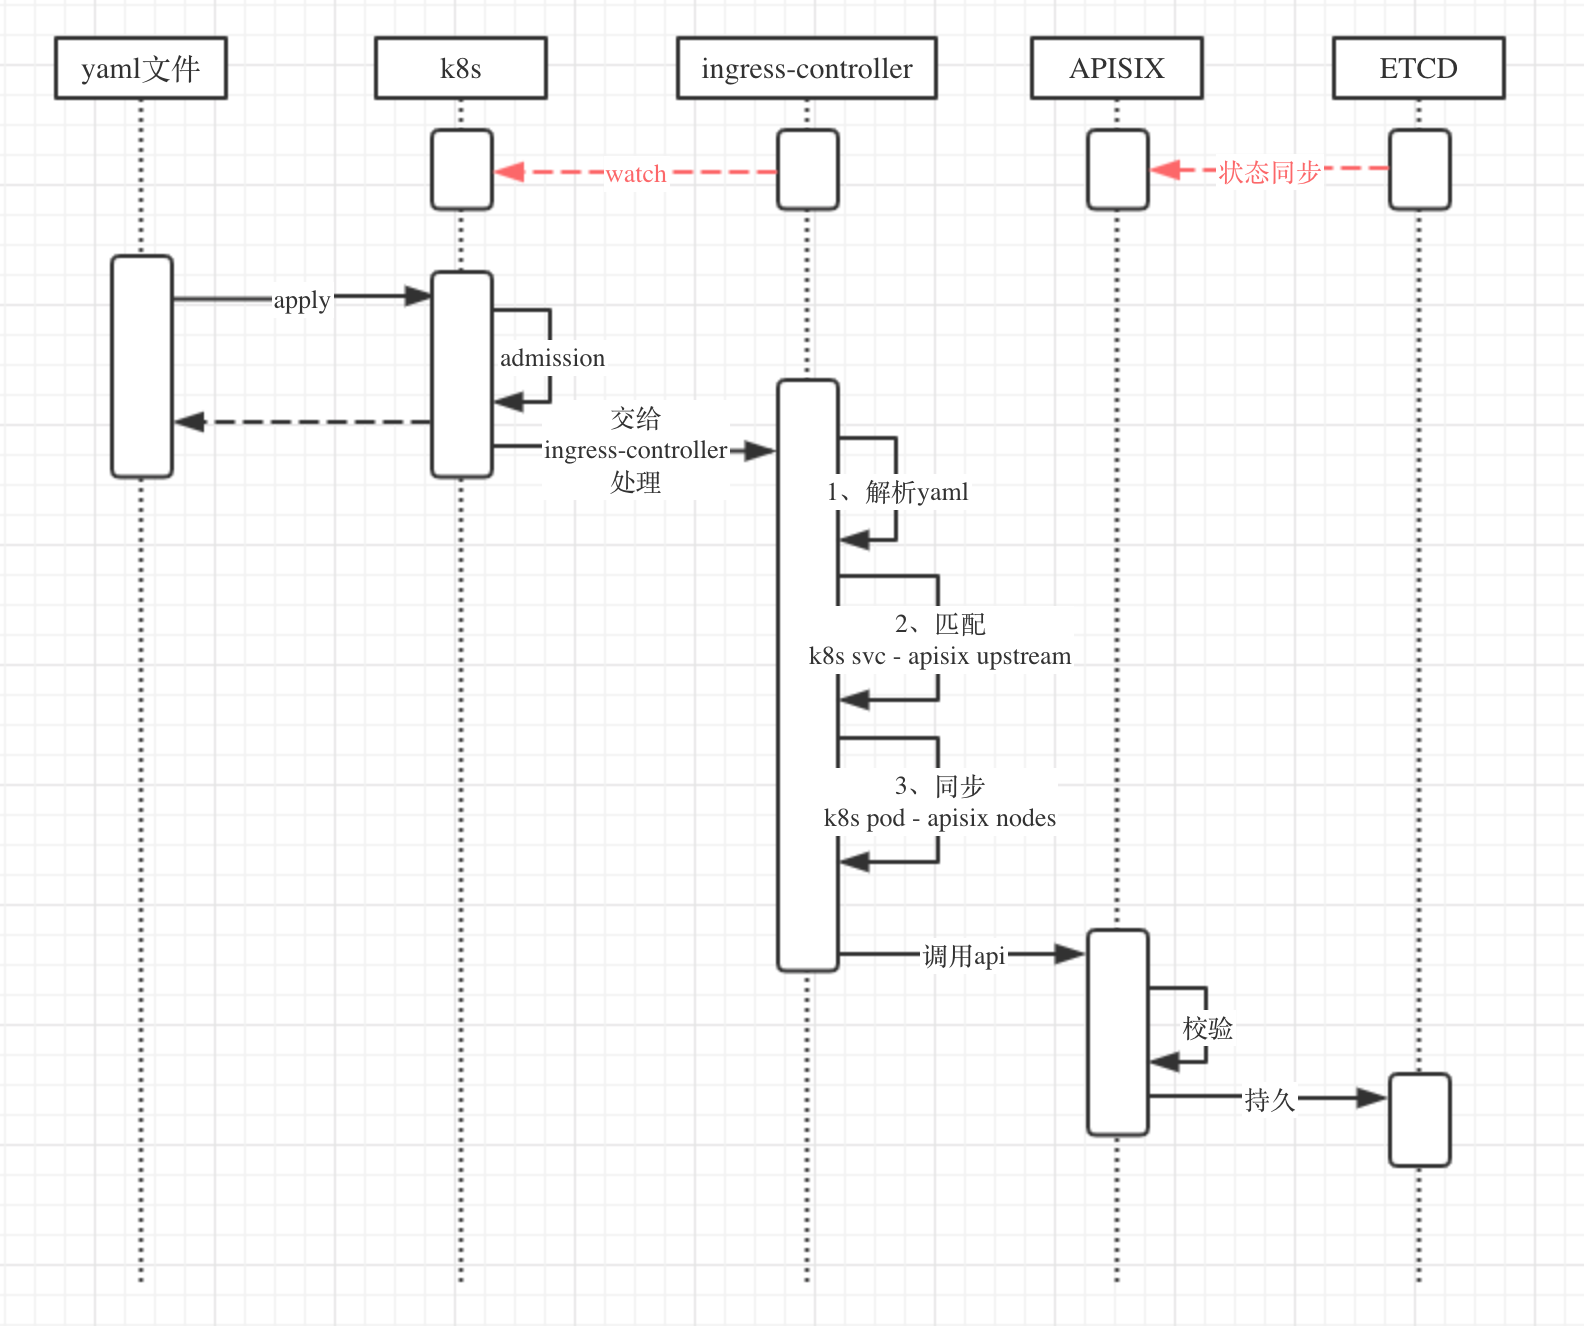
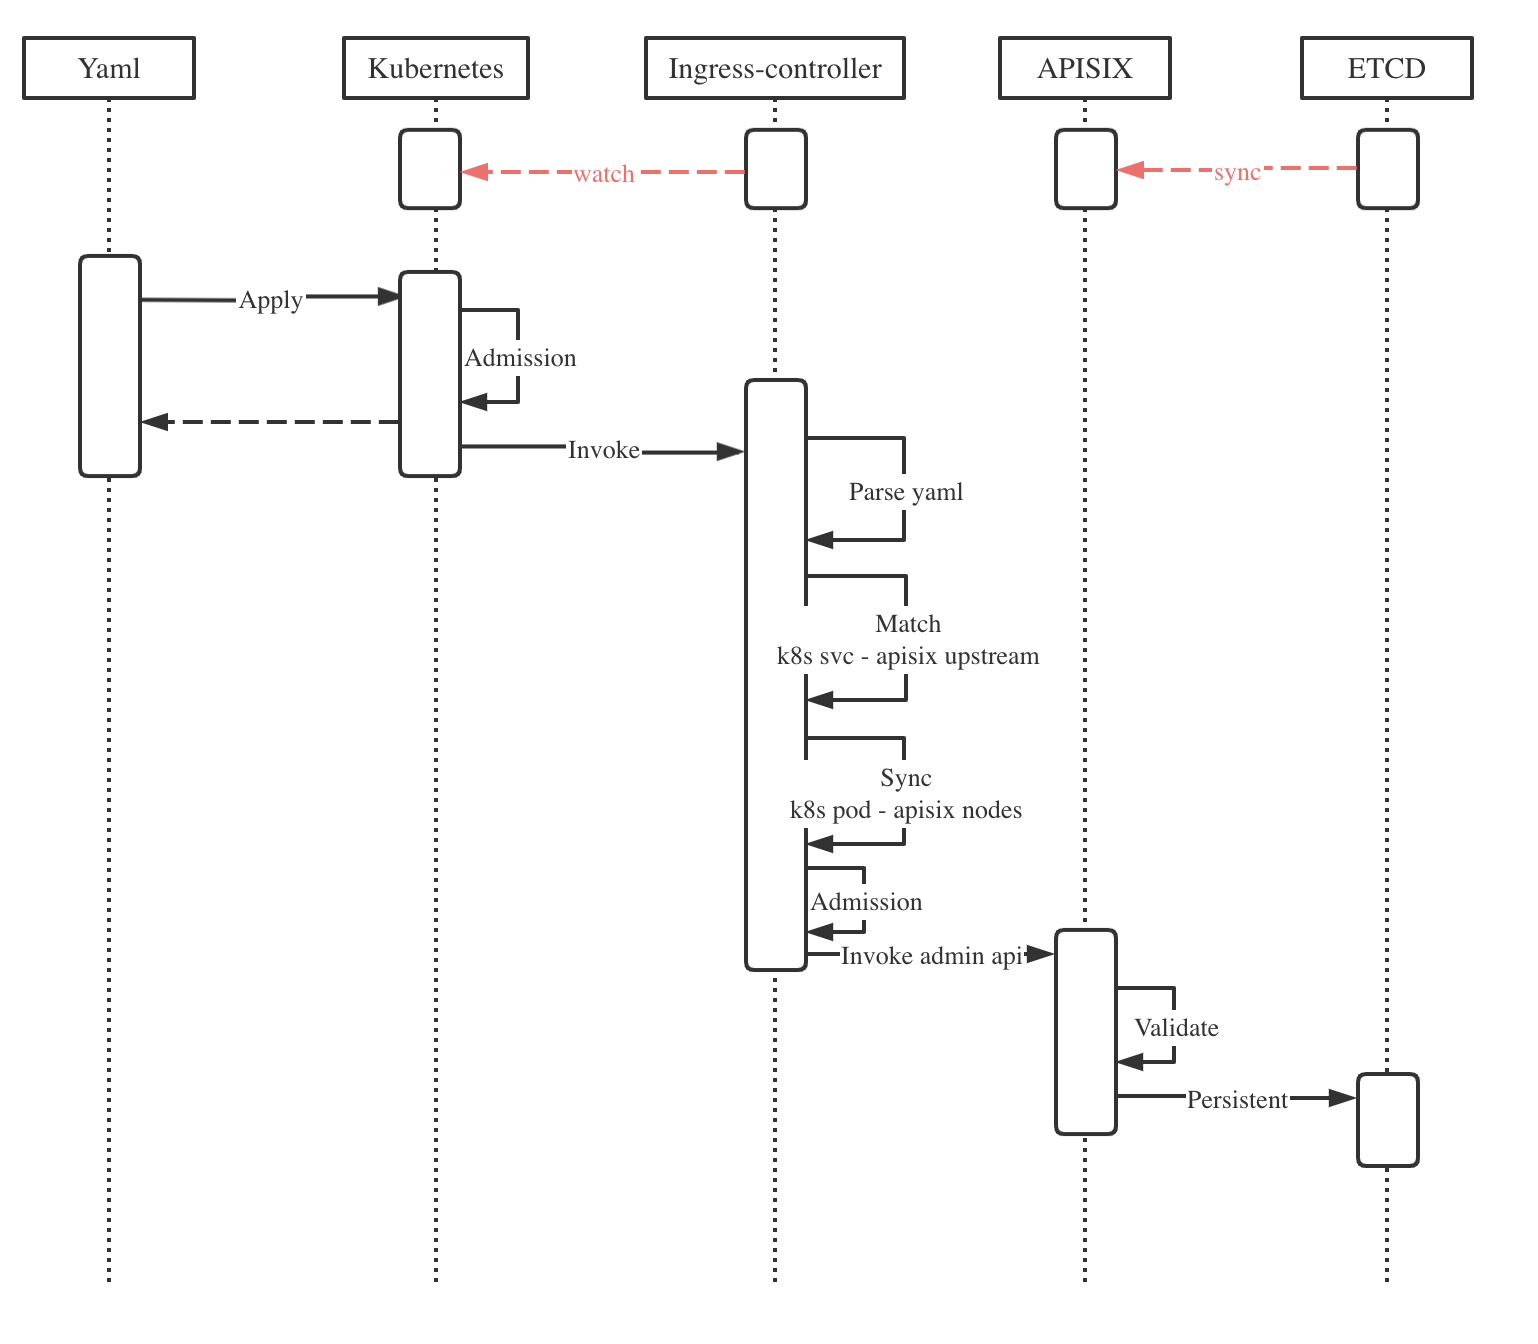
chore: modify readme

Changed region(s): [[0.0312, 0.0, 0.9675, 0.9585], [0.6866, 0.1546, 0.7178, 0.371], [0.6242, 0.0309, 0.6554, 0.0618]]

diff --git a/README.md b/README.md
@@ -1,55 +1,159 @@
-# ingress-controller
-Apache APISIX ingress for K8s
+# Apache APISIX for Kubernetes
 
-### Goal
+Use Apache APISIX for Kubernetes [Ingress](https://kubernetes.io/docs/concepts/services-networking/ingress/)
 
-A k8s compatible ingress controller.
-1. stability；
-2. stay in sync with Apache APISIX pod in k8s cluster；
-3. Full Apache APISIX extension support：route, upstream, consumer, plugin, etc；
+Configure [plugins](https://github.com/apache/apisix/tree/master/doc/plugins), load balancing and more in Apache APISIX for Kubernetes Services, support service registration discovery mechanism for upstreams. All using Custom Resource Definitions (CRDs).
 
+## Features
 
-### ingress controller features
+* Declarative configuration for Apache APISIX with Custom Resource Definitions(CRDs), using k8s yaml struct with minimum learning curve.
+* Hot-reload during yaml apply.
+* Auto register k8s endpoint to upstream(Apache APISIX) node.
+* Out of box support for node health check.
+* Support load balancing based on pod (upstream nodes).
+* Plug-in extension supports hot configuration and immediate effect.
+* Ingress controller itself as a plugable hot-reload component.
 
- 1. add Apache APISIX Custom Resource Definition(s) via k8s yaml syntax(with minimum learning curve);
- 2. hot-reload during yaml apply;
- 3. auto register k8s endpoint to upstream(Apache APISIX) node;
- 4. out of box support for node health check；
- 5. support upstream node defined load balancing；
- 6. extension plugin config hot-reload and dynamic tuning；
- 7. ingress controller itself as a plugable hot-reload component；
+## Get started
 
+### Dependencies
 
-### Design
+* Kubernetes
+* [Deploy Apache APISIX in k8s](https://github.com/apache/apisix/blob/master/kubernetes/README.md)
 
-![Architecture](https://github.com/api7/ingress-controller/blob/master/doc/imgs/module.png)
+To install `ingress controller` in k8s, need to care about 3 parts:
 
-#### 1.Apisix-ingress-types
-   - defines the CRD(CustomResourceDefinition) needed by Apache APISIX
-   - currently supports ApisixRoute/ApisixService/ApisixUpstream，and other service and route level plugins;
-   - can be packaged as a stand-alone binary, keep in sync with the ingress definition;
-   - CRD design see：https://github.com/api7/ingress-controller/issues/3;
+1. CRDs: They are the data structure of Apache APISIX in Kubernetes, used to define route, service, upstream, plugins, etc.
 
-#### 2.Apisix-types
-   - define interface objects to match concepts from Apache APISIX like route, service, upstream, and plugin;
-   - can be a packaged as a stand-alone binary, need to match with compatible Apache APISIX version;
-   - add new types to this module to support new features;
+2. RBAC: This is a function of Kubernetes, granting `ingress controller` resource access permissions.
 
-#### 3.seven
-   - contains main application logic;
-   - Sync the k8s cluster states to Apache APISIX, based on Apisix-types object;
+3. Configmap: Contains the necessary configuration for `ingress controller`.
 
-#### 4.ingress-controller
-   - driver process for ingress controller; watches k8s apiserver;
-   - match and covert Apisix-ingress-types to Apisix-types before handing the control over to the above module seven;
+### CRDs installation
 
+Install CRDs in Kubernetes
 
-### Sequence Diagram
+```shell
+kubectl apply -f - <<EOF
+apiVersion: apiextensions.k8s.io/v1beta1
+kind: CustomResourceDefinition
+metadata:
+  name: apisixroutes.apisix.apache.org
+spec:
+  group: apisix.apache.org
+  versions:
+    - name: v1
+      served: true
+      storage: true
+  scope: Namespaced
+  names:
+    plural: apisixroutes
+    singular: apisixroute
+    kind: ApisixRoute
+    shortNames:
+    - ar
 
-![Sequence Diagram](https://github.com/api7/ingress-controller/blob/master/doc/imgs/flow.png)
+---
+apiVersion: apiextensions.k8s.io/v1beta1
+kind: CustomResourceDefinition
+metadata:
+  name: apisixservices.apisix.apache.org
+spec:
+  group: apisix.apache.org
+  versions:
+    - name: v1
+      served: true
+      storage: true
+  scope: Namespaced
+  names:
+    plural: apisixservices
+    singular: apisixservice
+    kind: ApisixService
+    shortNames:
+    - as
 
-### Documentation
-[SDK Doc](doc/dev/develop.md)
+---
+apiVersion: apiextensions.k8s.io/v1beta1
+kind: CustomResourceDefinition
+metadata:
+  name: apisixupstreams.apisix.apache.org
+spec:
+  group: apisix.apache.org
+  versions:
+    - name: v1
+      served: true
+      storage: true
+  scope: Namespaced
+  names:
+    plural: apisixupstreams
+    singular: apisixupstream
+    kind: ApisixUpstream
+    shortNames:
+    - au
 
-### Deployment
-[Deployment](doc/deploy/deploy.md)
+EOF
+```
+
+### RBAC configuration
+
+* Create ServiceAccount
+
+```shell
+kubectl apply -f samples/deploy/rbac/service_account.yaml
+```
+
+* Create ClusterRole
+
+```shell
+kubectl apply -f samples/deploy/rbac/apisix_view_clusterrole.yaml
+```
+
+* Create ClusterRoleBinding
+
+```shell
+kubectl apply -f samples/deploy/rbac/apisix_view_clusterrolebinding.yaml
+```
+
+### Configmap for ingress controller
+
+Pay attention to the `namespace` and `APISIX address` in configmap.
+
+```shell
+kubectl apply -f samples/deploy/configmap/cloud.yaml
+```
+
+### Deploy ingress controller
+
+[How to build image from master branch?](# Master branch builds)
+
+```shell
+kubectl apply -f samples/deploy/deployment/ingress-controller.yaml
+```
+
+### Helm
+
+// todo
+
+## Document
+
+* [SDK doc](./doc/dev/develop.md)
+* [Design introduction](./doc/design/design.md)
+
+## Master branch builds
+
+```shell
+docker build -t apache/ingress-controller:v0.1.0 .
+```
+
+## Seeking help
+
+- Mailing List: Mail to dev-subscribe@apisix.apache.org, follow the reply to subscribe the mailing list.
+- QQ Group - 578997126, 552030619
+- [Slack Workspace](http://s.apache.org/slack-invite) - join `#apisix` on our Slack to meet the team and ask questions
+- ![Twitter Follow](https://img.shields.io/twitter/follow/ApacheAPISIX?style=social) - follow and interact with us using hashtag `#ApacheAPISIX`
+- [bilibili video](https://space.bilibili.com/551921247)
+
+## License
+
+[Apache License 2.0](https://github.com/api7/ingress-controller/blob/master/LICENSE)
+

diff --git a/doc/design/design.md b/doc/design/design.md
@@ -1,0 +1,41 @@
+# ingress-controller
+
+Apache APISIX ingress for Kubernetes.
+
+## Design
+
+![Architecture](../imgs/module.png)
+
+### 1.Ingress-types
+
+- defines the CRD(CustomResourceDefinition) needed by Apache APISIX
+
+- currently supports ApisixRoute/ApisixService/ApisixUpstream，and other service and route level plugins;
+
+- can be packaged as a stand-alone binary, keep in sync with the ingress definition;
+
+- [CRD design](https://github.com/api7/ingress-controller/issues/3)
+
+### 2.Types
+
+- define interface objects to match concepts from Apache APISIX like route, service, upstream, and plugin;
+
+- can be a packaged as a stand-alone binary, need to match with compatible Apache APISIX version;
+
+- add new types to this module to support new features;
+
+### 3.Seven
+
+- contains main application logic;
+
+- Sync the k8s cluster states to Apache APISIX, based on Apisix-types object;
+
+### 4.Ingress-controller
+
+- driver process for ingress controller; watches k8s apiserver;
+
+- match and covert Apisix-ingress-types to Apisix-types before handing the control over to the above module seven;
+
+## Sequence Diagram
+
+![Sequence Diagram](../imgs/flow.png)
